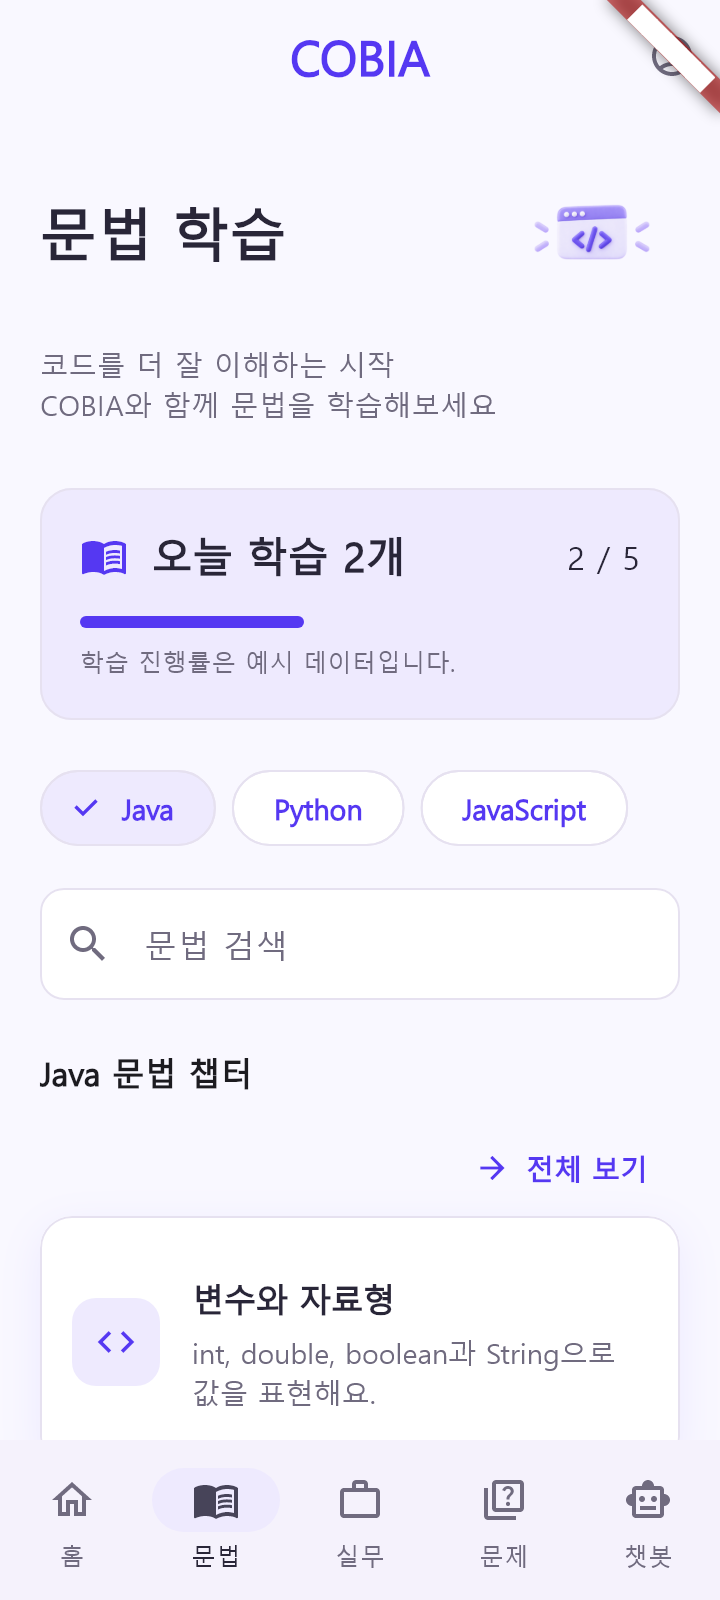
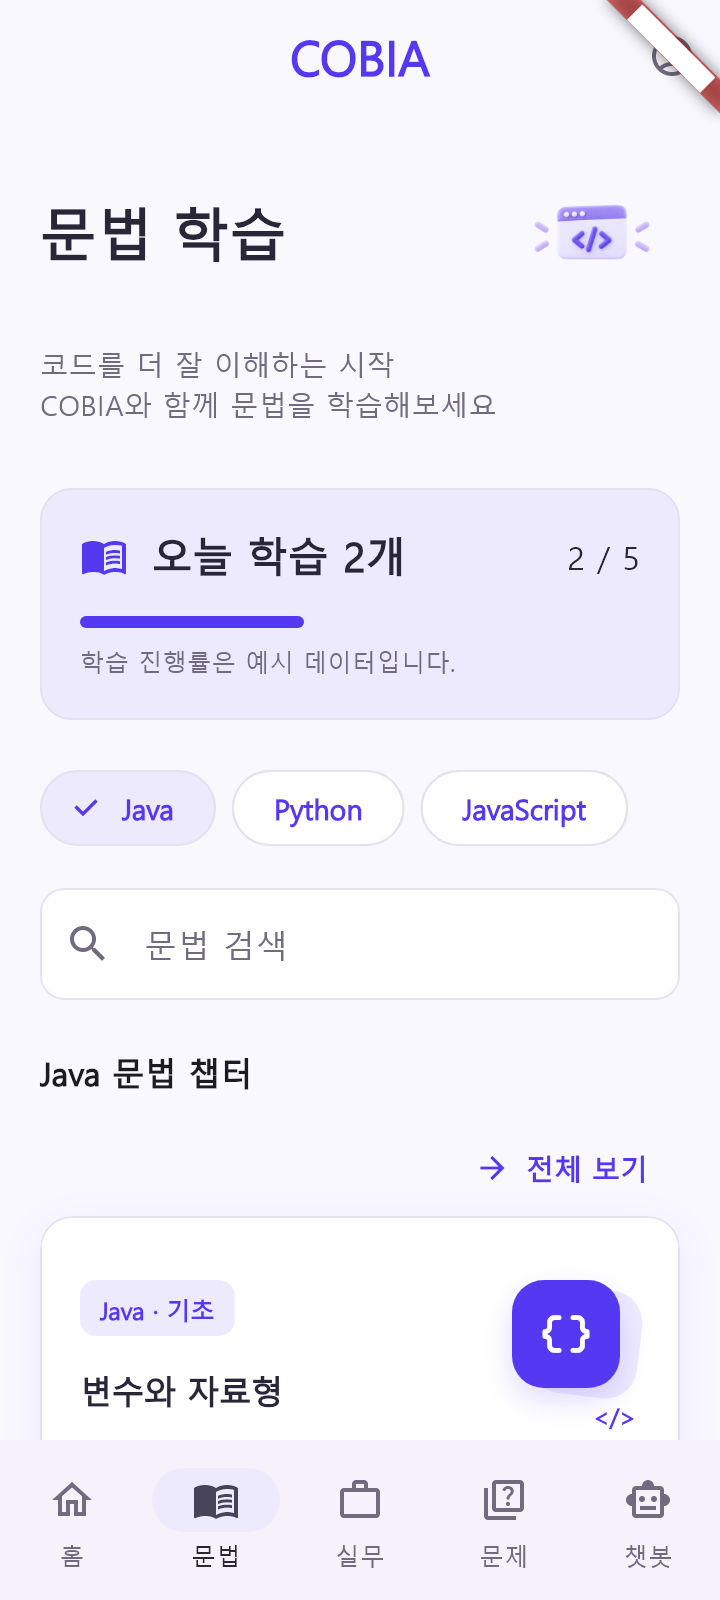
style: 문법 홈 학습 카드 디자인 개선

Changed region(s): [[0.1222, 0.7812, 0.6111, 0.875], [0.6722, 0.7812, 0.8861, 0.9062]]

diff --git a/lib/features/grammar/presentation/grammar_home_screen.dart b/lib/features/grammar/presentation/grammar_home_screen.dart
@@ -1,3 +1,4 @@
+import '../../../app/widgets/learning_overview_content.dart';
 import '../../../app/widgets/learning_card.dart';
 import '../../../app/widgets/learning_ui.dart';
 import '../../../app/app_ui_tokens.dart';
@@ -140,15 +141,24 @@ class _GrammarHomeScreenState extends State<GrammarHomeScreen> {
             LearningCard(
               margin: const EdgeInsets.only(bottom: 12),
               child: ListTile(
-                leading: const LearningIcon(Icons.code),
-                title: Text(chapter.title, style: AppTypography.card),
-                subtitle: Padding(
-                  padding: const EdgeInsets.only(top: 6),
-                  child: Text(chapter.description, style: AppTypography.helper),
+                contentPadding: EdgeInsets.zero,
+                title: LearningOverviewContent(
+                  label: '${_language.label} · ${chapter.category.label}',
+                  title: chapter.title,
+                  description: chapter.description,
+                  icon: switch (chapter.id) {
+                    'conditions' => Icons.call_split_rounded,
+                    'loops' => Icons.repeat_rounded,
+                    'arrays' => Icons.grid_view_rounded,
+                    'variables' => Icons.data_object_rounded,
+                    _ => Icons.code_rounded,
+                  },
+                  symbol: '</>',
+                  footer: grammarChapterRoutes.containsKey(chapter.id)
+                      ? '개념부터 예제까지 학습하기'
+                      : '문법 개념 살펴보기',
+                  enabled: grammarChapterRoutes.containsKey(chapter.id),
                 ),
-                trailing: grammarChapterRoutes.containsKey(chapter.id)
-                    ? const LearningCardArrow()
-                    : null,
                 onTap: grammarChapterRoutes.containsKey(chapter.id)
                     ? () => openGrammarChapter(context, _language, chapter)
                     : null,

diff --git a/test/grammar_chapter_navigation_test.dart b/test/grammar_chapter_navigation_test.dart
@@ -56,6 +56,11 @@ void main() {
 
         await tester.tap(find.byTooltip('뒤로가기'));
         await tester.pumpAndSettle();
+        await tester.scrollUntilVisible(
+          find.text('Python 문법 챕터'),
+          -200,
+          scrollable: find.byType(Scrollable).first,
+        );
         expect(find.text('Python 문법 챕터'), findsOneWidget);
         expect(tester.takeException(), isNull);
       });
